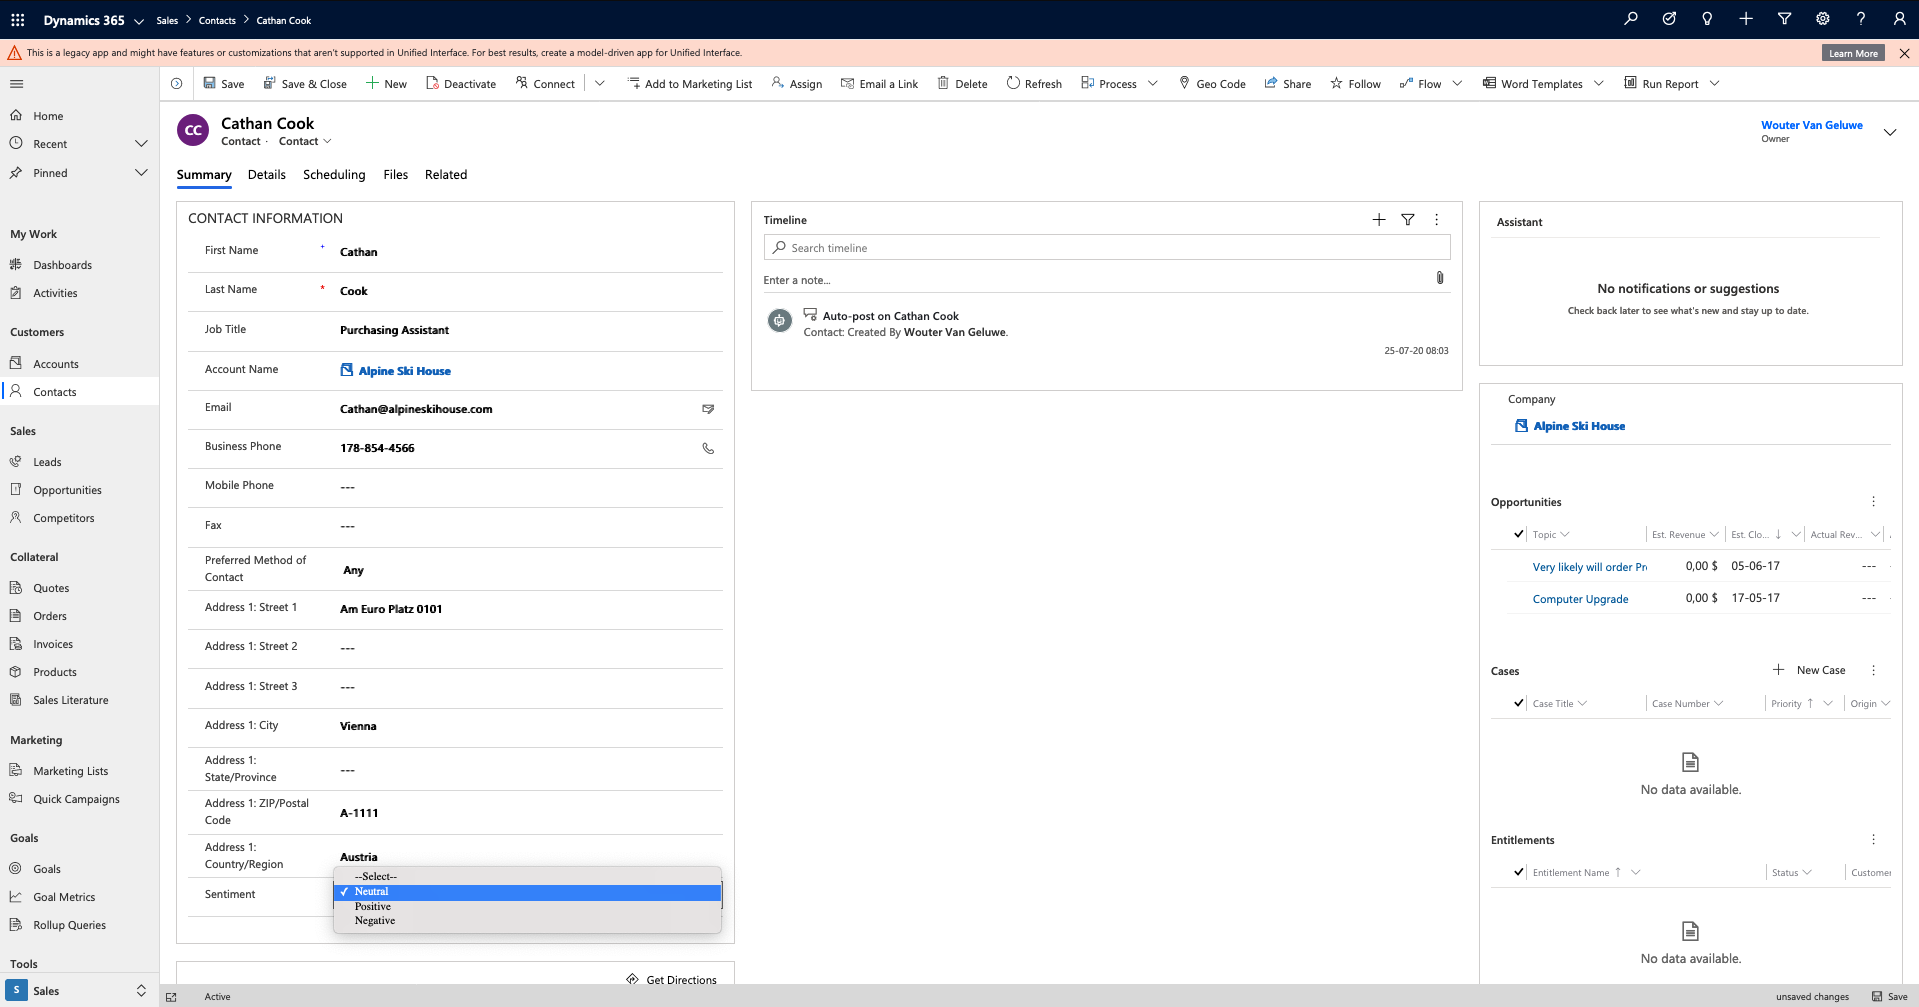
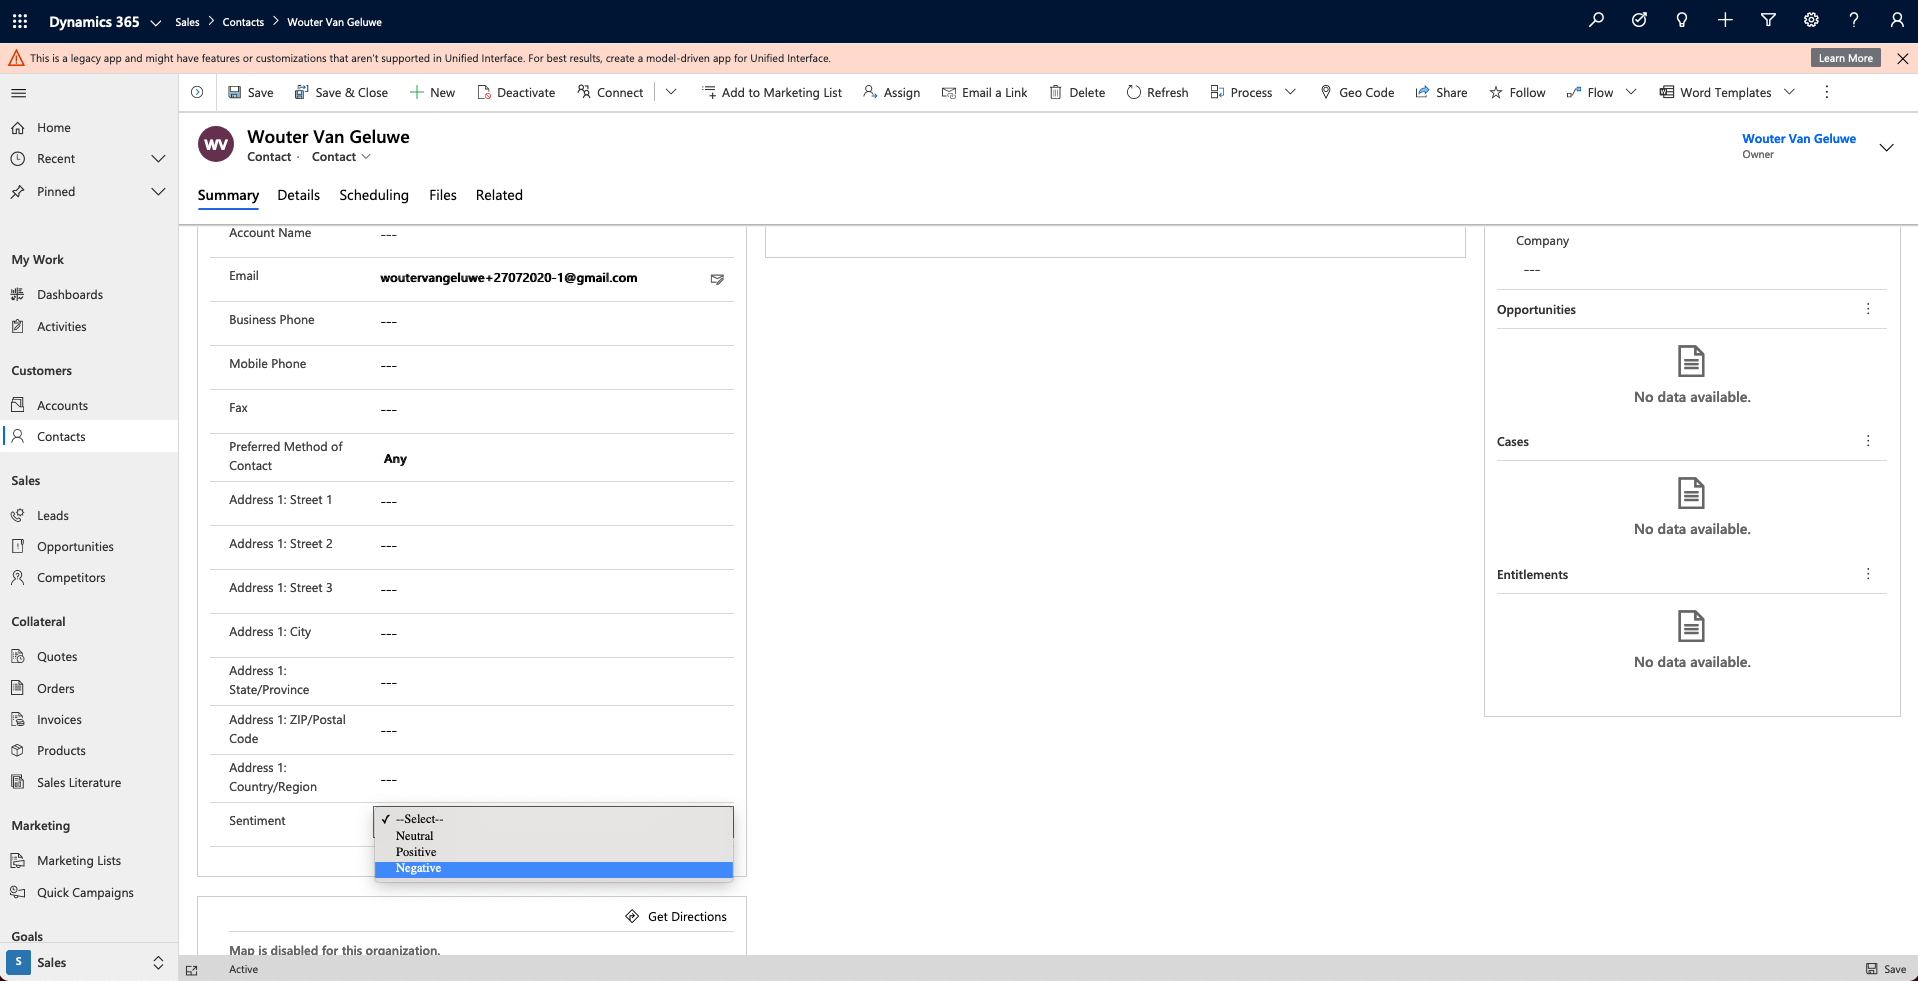
module17 updates

diff --git a/help/tutorial-comprehensive-technical/modules/module17/ex4.md b/help/tutorial-comprehensive-technical/modules/module17/ex4.md
@@ -10,9 +10,187 @@ activity:
 
 # 17.4 Update a contact in Microsoft Dynamics 365 and automatically trigger a journey
 
-## 17.4.1 Configure a journey to trigger when sentiment changes
+## 17.4.1 Create a segment in Adobe Experience Platform for customers with a negative sentiment
 
-## 17.4.2 Create automation using Microsoft Automate (Flow) to listen to the sentiment change
+Go to [Adobe Experience Platform](https://experience.adobe.com/platform/home).
+
+![demo](./images/home.png)
+
+In the left menu, go to **Segments**.
+
+![demo](./images/segments1.png)
+
+In Segments, click **+ Create Segment**.
+
+![demo](./images/segments2.png)
+
+In Attributes, click **XDM Individual Profile**.
+
+![demo](./images/segments3.png)
+
+Click your tenant specific object, which is similar to **--aepTenantIdSchema--**.
+
+![demo](./images/segments4.png)
+
+Click **sentiment**.
+
+![demo](./images/segments5.png)
+
+Drag and drop **sentiment** onto the canvas.
+
+![demo](./images/segments6.png)
+
+Enter the value **Negative**.
+
+![demo](./images/segments7.png)
+
+Go to **Events** and click **XDM ExperienceEvent**.
+
+![demo](./images/segments8.png)
+
+Click your tenant specific object, which is similar to **--aepTenantIdSchema--**.
+
+![demo](./images/segments9.png)
+
+Click **brand**.
+
+![demo](./images/segments10.png)
+
+Drag and drop **ldap** to the canvas.
+
+![demo](./images/segments11.png)
+
+Enter your ldap.
+
+![demo](./images/segments12.png)
+
+Use this naming convention to name your segment: **ldap - D365 Sentiment: Negative**, in this example that should be **vangeluw - D365 Sentiment: Negative**.
+
+![demo](./images/segments12a.png)
+
+Click **Save**. After clicking Save, you'll be redirected here:
+
+![demo](./images/segments13.png)
+
+
+## 17.4.2 Configure a journey to trigger when sentiment becomes negative
+
+Go to [https://experience.adobe.com/#/home](https://experience.adobe.com/#/home). Click to open **Journey Orchestration**.
+
+![JO](./images/exchome.png)
+
+You'll then be redirected to the Journey Orchestration homepage. Click **Create** to create a new journey.
+
+![JO](./images/jo1.png)
+
+You'll then see this.
+
+![JO](./images/jo2.png)
+
+Enter a name for your journey. Use this naming convention: **ldap - D365 Sentiment: Negative**, which in this example becomes **vangeluw - D365 Sentiment: Negative**. 
+
+Click **OK**.
+
+![JO](./images/jo3.png)
+
+From the left menu, drag and drop the **Segment Qualification** event onto the canvas.
+
+![JO](./images/jo4.png)
+
+Click the **Edit** icon to select a segment.
+
+![JO](./images/jo5.png)
+
+In the popup, select the segment you created in exercise 17.4.1, which was named **ldap - D365 Sentiment: Negative**.
+
+Click **Save**.
+
+![JO](./images/jo6.png)
+
+Click **OK**.
+
+![JO](./images/jo7.png)
+
+In the left menu, go to **Actions** and search for the action **smsTwilioLdap** that you created in module 12.
+
+![JO](./images/jo8.png)
+
+Drag and drop the action **smsTwilioLdap** onto the canvas as the next step in your journey. 
+
+Click on the **Edit** icon for the Action Parameter **TEXTMESSAGE**.
+
+![JO](./images/jo9.png)
+
+You'll see a popup with the **Simple Mode Editor**.
+
+![JO](./images/jo10.png)
+
+In the popup you'll see, click on **Advanced Mode**. You'll then see this.
+
+![JO](./images/jo11.png)
+
+Paste this code in the **Advanced Mode Editor**. Click **OK**.
+
+In this text message, you'll use the customer's first name. You can either select the path to the field First name, or you can copy and paste the below text.
+
+FYI: If you paste the below text, please verify the path as it's possible that in your Adobe Experience Platform instance, the data source and field group are named in a different way. 
+
+`#{ExperiencePlatform.ProfileFieldGroup.profile.person.name.firstName} + ", we'd like to apologize for the negative experience you had. We're looking into this and we'll contact you in the next 2 business days."`
+
+![JO](./images/jo12.png)
+
+You should now have this. Click **OK** to save your changes.
+
+![JO](./images/jo13.png)
+
+Next, click on the **Edit** icon for the Action Parameter **MOBILENR**.
+
+![JO](./images/jo14.png)
+
+You'll see a popup with the **Simple Mode Editor**.
+
+![JO](./images/jo15.png)
+
+In the popup you'll see, click on **Advanced Mode**. You'll then see this.
+
+![JO](./images/jo16.png)
+
+Paste this code in the **Advanced Mode Editor**. 
+
+`substr(#{ExperiencePlatform.ProfileFieldGroup.profile.mobilePhone.number}, 0, 12)`
+
+FYI: This code is intended to work with mobile phone numbers that have 12 digits (including the +), like this one: **+32463622044`.
+Several other countries have 13-digit phone numbers. If your mobile phone number has 13 digits (including the +), you need to update this code to:
+
+`substr(#{ExperiencePlatform.ProfileFieldGroup.profile.mobilePhone.number}, 0, 13)`
+
+Click **OK** to save your changes. You'll then have this.
+
+Click **OK** once more.
+
+![JO](./images/jo17.png)
+
+Next, in the left menu, go to Orchestration.
+
+![JO](./images/jo18.png)
+
+Drag and drop the orchestration event **End** onto the canvas. Click **OK**
+
+![JO](./images/jo19.png)
+
+Your journey is ready to be published now. Click **Publish**.
+
+![JO](./images/jo20.png)
+
+Click **Publish** again.
+
+![JO](./images/jo21.png)
+
+Your journey is now published.
+
+![JO](./images/jo22.png)
+
+## 17.4.3 Create automation using Microsoft Automate (Flow) to listen to the sentiment change
 
 After creating a journey that will trigger when customer sentiment changes, you'll now create a flow in Microsoft Power Automate that will listen to a change to the sentiment field in Microsoft Dynamics 365 and then send an update to the Real-time Customer Profile in Adobe Experience Platform.
 
@@ -174,15 +352,17 @@ Click **Save**.
 
 ![Automate](./images/automate0-save.png)
 
-To test your automation, go back to your Microsoft Dynamics 365 Dashboard, and go to **Contacts**. Open a contact record.
+To test your automation, go back to your Microsoft Dynamics 365 Dashboard, and go to **Contacts**. Open the contact record for the profile you created on the AEP Demo website as part of the previous exercise.
 
-![Automate](./images/contacts.png)
+![JO](./images/aepdemo3.png)
 
-Scroll down to the **Sentiment** field and change the value for that customer. Lastly, save your changes.
+Scroll down to the **Sentiment** field and change the value for that customer to **Negative**. Lastly, save your changes.
 
 ![Automate](./images/contacts1.png)
 
-By saving your changes in Microsoft Dynamics 365, an automated request will be sent from Microsoft Dynamics 365 to Adobe Experience Platform which will update the Real-time Customer Profile in Adobe Experience Platform and as a consequence, a journey in Journey Orchestration will be activated.
+By saving your changes in Microsoft Dynamics 365, an automated request will be sent from Microsoft Dynamics 365 to Adobe Experience Platform which will update the Real-time Customer Profile in Adobe Experience Platform and as a consequence, your journey in Journey Orchestration will be activated. You should now receive the text message within seconds.
+
+![Automate](./images/contactssms.png)
 
 Next Step: [Summary & benefits](./summary.md)
 

diff --git a/help/tutorial-comprehensive-technical/modules/module17/summary.md b/help/tutorial-comprehensive-technical/modules/module17/summary.md
@@ -12,7 +12,7 @@ activity:
 Congratulations and thank you for investing your time in learning about Microsoft Dynamics 365, Journey Orchestration and Adobe Experience Platform! 
 In this module, you learnt how to set up your instance of Dynamics 365 for Sales and load sample customer data. You then used the Dynamics 365 Source Connector in Adobe Experience Platform to ingest that data from Microsoft Dynamics 365 into Adobe Experience Platform.
 
-Finally, you used Journey orchestration to connect directly with Microsoft Dynamics 365 APIs to create a contract record from the AEP Demo website and you configured Journey orchestration to communicate directly to a customer based on the on a change in sentiment. In addition, you also learnt how to set up and configure Microsoft Power Automate (Flow) and trigger a custom action directly into Journey Orchestration based on the Contact record change in Microsoft Dynamics 365. 
+Finally, you used Journey orchestration to connect directly with Microsoft Dynamics 365 APIs to create a contract record from the AEP Demo website and you configured Journey orchestration to communicate directly to a customer based on the on a change in sentiment. In addition, you also learnt how to set up and configure Microsoft Power Automate (Flow) and trigger a custom action directly into Journey Orchestration based on the Contact record change in Microsoft Dynamics 365.
 
 ## Benefits
 

diff --git a/help/tutorial-comprehensive-technical/modules/module17/adobe-experience-platform-microsoft-dynamics-365.md b/help/tutorial-comprehensive-technical/modules/module17/adobe-experience-platform-microsoft-dynamics-365.md
@@ -39,12 +39,7 @@ Finally, you'll use Journey orchestration to connect directly with Microsoft Dyn
 
 Have a look at the below architecture, which highlights the components that will be discussed and used in this module.
 
-![Architectural Overview](./images/architecture.png)
-
-Flow: 
-
-![Architectural Overview](./images/flow-Module19.gif)
-
+![Architectural Overview](./images/architecturew.png)
 
 ## Exercises
 
